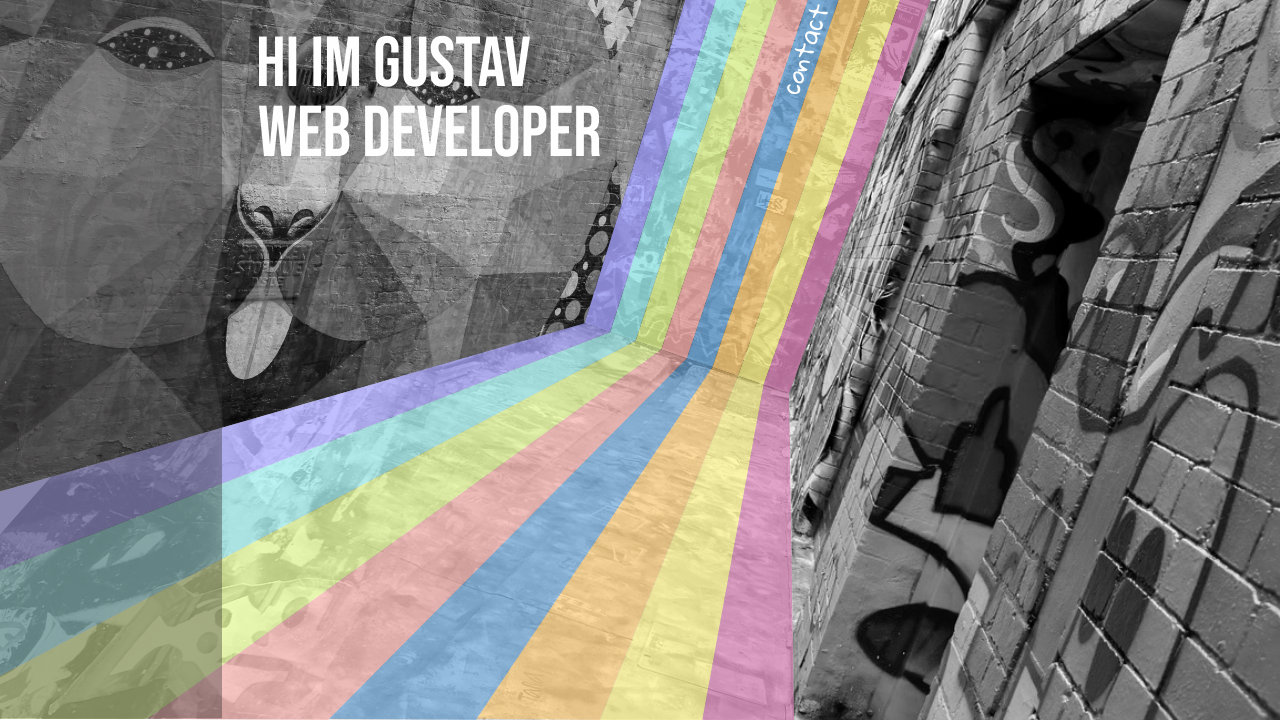
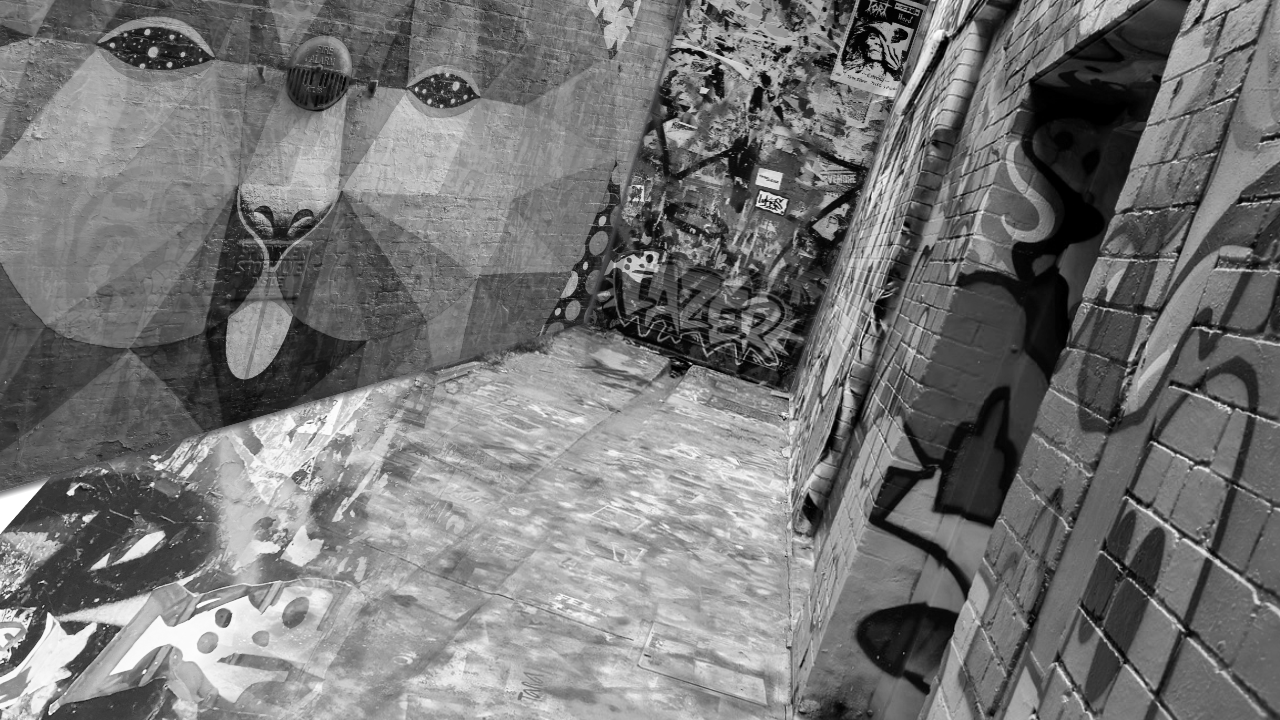
entrance

diff --git a/src/components/Banner.js b/src/components/Banner.js
@@ -1,16 +1,63 @@
 import '../components/Banner.css';
-import React, { useState } from 'react';
+import { useState } from 'react';
 import imgBanner from '../assets/img/img-banner.png';
 
 export function Banner() {
-   const [hovered, setHovered] = useState(false);
-
-   const HoverTrue = () => setHovered(true);
-
-   const HoverFalse = () =>
+   const [hovered1, setHovered1] = useState(false);
+   const HoverTrue1 = () => setHovered1(true);
+   const HoverFalse1 = () =>
       setTimeout(function () {
-         setHovered(false);
-      }, 2000);
+         setHovered1(false);
+      }, 3000);
+
+   const [hovered2, setHovered2] = useState(false);
+   const HoverTrue2 = () => setHovered2(true);
+   const HoverFalse2 = () =>
+      setTimeout(function () {
+         setHovered2(false);
+      }, 3000);
+
+   const [hovered3, setHovered3] = useState(false);
+   const HoverTrue3 = () => setHovered3(true);
+   const HoverFalse3 = () =>
+      setTimeout(function () {
+         setHovered3(false);
+      }, 3000);
+
+   const [hovered4, setHovered4] = useState(false);
+   const HoverTrue4 = () => setHovered4(true);
+   const HoverFalse4 = () =>
+      setTimeout(function () {
+         setHovered4(false);
+      }, 3000);
+
+   const [hovered5, setHovered5] = useState(false);
+   const HoverTrue5 = () => setHovered5(true);
+   const HoverFalse5 = () =>
+      setTimeout(function () {
+         setHovered5(false);
+      }, 3000);
+
+   const [hovered6, setHovered6] = useState(false);
+   const HoverTrue6 = () => setHovered6(true);
+   const HoverFalse6 = () =>
+      setTimeout(function () {
+         setHovered6(false);
+      }, 3000);
+
+   const [hovered7, setHovered7] = useState(false);
+   const HoverTrue7 = () => setHovered7(true);
+   const HoverFalse7 = () =>
+      setTimeout(function () {
+         setHovered7(false);
+      }, 3000);
+
+   const [hovered8, setHovered8] = useState(false);
+   const HoverTrue8 = () => setHovered8(true);
+   const HoverFalse8 = () =>
+      setTimeout(function () {
+         setHovered8(false);
+      }, 3000);
 
    return (
       <div className="container">
@@ -20,61 +67,61 @@ export function Banner() {
                <metadata id="CorelCorpID_0Corel-Layer" />
                <polygon
                   id="fil1"
-                  class={hovered ? 'move' : ''}
-                  onMouseOver={HoverTrue}
-                  onMouseLeave={HoverFalse}
+                  class={hovered1 ? 'move' : ''}
+                  onMouseOver={HoverTrue1}
+                  onMouseLeave={HoverFalse1}
                   points="0,4828 0,5723 5382,2886 6321,0 6062,0 5166,2812 "
                />
                <polygon
                   id="fil2"
-                  class={hovered ? 'move' : ''}
-                  onMouseOver={HoverTrue}
-                  onMouseLeave={HoverFalse}
+                  class={hovered2 ? 'move' : ''}
+                  onMouseOver={HoverTrue2}
+                  onMouseLeave={HoverFalse2}
                   points="5599,2960 6581,0 6321,0 5382,2886 0,5723 0,6085 1253,6085 "
                />
                <polygon
                   id="fil3"
-                  class={hovered ? 'move' : ''}
-                  onMouseOver={HoverTrue}
-                  onMouseLeave={HoverFalse}
+                  class={hovered3 ? 'move' : ''}
+                  onMouseOver={HoverTrue3}
+                  onMouseLeave={HoverFalse3}
                   points="5816,3034 6841,0 6581,0 5599,2960 1253,6085 2778,6096 "
                />
                <polygon
                   id="fil4"
-                  class={hovered ? 'move' : ''}
-                  onMouseOver={HoverTrue}
-                  onMouseLeave={HoverFalse}
+                  class={hovered4 ? 'move' : ''}
+                  onMouseOver={HoverTrue4}
+                  onMouseLeave={HoverFalse4}
                   points="6032,3109 7100,0 6841,0 5816,3034 2789,6085 4029,6096 "
                />
                <polygon
                   id="fil5"
-                  class={hovered ? 'move' : ''}
-                  onMouseOver={HoverTrue}
-                  onMouseLeave={HoverFalse}
+                  class={hovered5 ? 'move' : ''}
+                  onMouseOver={HoverTrue5}
+                  onMouseLeave={HoverFalse5}
                   points="6249,3183 7360,0 7100,0 6032,3109 4036,6085 5079,6096 "
                />
                <polygon
                   id="fil6"
-                  class={hovered ? 'move' : ''}
-                  onMouseOver={HoverTrue}
-                  onMouseLeave={HoverFalse}
+                  class={hovered6 ? 'move' : ''}
+                  onMouseOver={HoverTrue6}
+                  onMouseLeave={HoverFalse6}
                   points="6465,3257 7620,0 7360,0 6249,3183 5079,6096 5947,6096 "
                />
                <polygon
                   id="fil7"
-                  class={hovered ? 'move' : ''}
-                  onMouseOver={HoverTrue}
-                  onMouseLeave={HoverFalse}
+                  class={hovered7 ? 'move' : ''}
+                  onMouseOver={HoverTrue7}
+                  onMouseLeave={HoverFalse7}
                   points="6465,3257 7620,0 7879,0 6682,3331 6723,6096 5947,6096 "
                />
                <polygon
                   id="fil8"
-                  class={hovered ? 'move' : ''}
-                  onMouseOver={HoverTrue}
-                  onMouseLeave={HoverFalse}
+                  class={hovered8 ? 'move' : ''}
+                  onMouseOver={HoverTrue8}
+                  onMouseLeave={HoverFalse8}
                   points="4949,2737 5802,0 6062,0 5166,2812 0,4828 0,4163 "
                />
-               <polygon id="fil" class="fil9" points="10837,127 0,127 0,0 10837,0 " />
+               <polygon class="fil9" points="10837,127 0,127 0,0 10837,0 " />
             </g>
          </svg>
       </div>

diff --git a/src/components/Entrance.css b/src/components/Entrance.css
@@ -1,0 +1,110 @@
+@-webkit-keyframes fade-in {
+   0% {
+      opacity: 0;
+   }
+   100% {
+      opacity: 1;
+   }
+}
+
+@keyframes fade-in {
+   0% {
+      opacity: 0;
+   }
+   100% {
+      opacity: 1;
+   }
+}
+
+@-webkit-keyframes fade-out {
+   0% {
+      opacity: 1;
+   }
+   100% {
+      opacity: 0;
+   }
+}
+
+@keyframes fade-out {
+   0% {
+      opacity: 1;
+   }
+   100% {
+      opacity: 0;
+   }
+}
+
+.entrance-img-a {
+   position: absolute;
+   top: 0vw;
+   left: 0vw;
+   width: 100%;
+   -webkit-animation: fade-in 0.8s cubic-bezier(0.39, 0.575, 0.565, 1) both;
+   animation: fade-in 0.8s cubic-bezier(0.39, 0.575, 0.565, 1) both;
+}
+
+.entrance-img-b {
+   position: absolute;
+   top: 0vw;
+   left: 0vw;
+   width: 100%;
+   -webkit-animation: fade-in 0.8s cubic-bezier(0.39, 0.575, 0.565, 1) both;
+   animation: fade-in 0.8s cubic-bezier(0.39, 0.575, 0.565, 1) both;
+   animation-delay: 0.2s;
+}
+
+.entrance-img-c {
+   position: absolute;
+   top: 0vw;
+   left: 0vw;
+   width: 100%;
+   -webkit-animation: fade-in 0.8s cubic-bezier(0.39, 0.575, 0.565, 1) both;
+   animation: fade-in 0.8s cubic-bezier(0.39, 0.575, 0.565, 1) both;
+   animation-delay: 0.4s;
+}
+
+.entrance-img-d {
+   position: absolute;
+   top: 0vw;
+   left: 0vw;
+   width: 100%;
+   -webkit-animation: fade-in 0.8s cubic-bezier(0.39, 0.575, 0.565, 1) both;
+   animation: fade-in 0.8s cubic-bezier(0.39, 0.575, 0.565, 1) both;
+   animation-delay: 0.6s;
+}
+
+.entrance-img-e {
+   position: absolute;
+   top: 0vw;
+   left: 0vw;
+   width: 100%;
+   -webkit-animation: fade-in 0.8s cubic-bezier(0.39, 0.575, 0.565, 1) both;
+   animation: fade-in 0.8s cubic-bezier(0.39, 0.575, 0.565, 1) both;
+   animation-delay: 0.8s;
+}
+
+.entrance-img-f {
+   position: absolute;
+   top: 0vw;
+   left: 0vw;
+   width: 100%;
+   -webkit-animation: fade-in 0.8s cubic-bezier(0.39, 0.575, 0.565, 1) both;
+   animation: fade-in 0.8s cubic-bezier(0.39, 0.575, 0.565, 1) both;
+   animation-delay: 1s;
+}
+
+/* out */
+
+.entrance-img-a {
+   -webkit-animation: fade-out 0.2s cubic-bezier(0.39, 0.575, 0.565, 1) both;
+   animation: fade-out 0.2s cubic-bezier(0.39, 0.575, 0.565, 1) both;
+   animation-delay: 2s;
+}
+
+/* the class comes from banner to use the animation */
+
+.lines {
+   -webkit-animation: fade-in 0.2s cubic-bezier(0.39, 0.575, 0.565, 1) both;
+   animation: fade-in 0.2s cubic-bezier(0.39, 0.575, 0.565, 1) both;
+   animation-delay: 4s;
+}

diff --git a/src/components/Entrance.js b/src/components/Entrance.js
@@ -1,0 +1,20 @@
+import '../components/Entrance.css';
+import imgA from '../assets/img/entrance/entrance-a.png';
+import imgB from '../assets/img/entrance/entrance-b.png';
+import imgC from '../assets/img/entrance/entrance-c.png';
+import imgD from '../assets/img/entrance/entrance-d.png';
+import imgE from '../assets/img/entrance/entrance-e.png';
+import imgF from '../assets/img/entrance/entrance-f.png';
+
+export function Entrance() {
+   return (
+      <div className="entrance-container">
+         <img src={imgA} className="entrance-img-a" alt="rainbow" />
+         <img src={imgB} className="entrance-img-b" alt="rainbow" />
+         <img src={imgC} className="entrance-img-b" alt="rainbow" />
+         <img src={imgD} className="entrance-img-b" alt="rainbow" />
+         <img src={imgE} className="entrance-img-b" alt="rainbow" />
+         <img src={imgF} className="entrance-img-b" alt="rainbow" />
+      </div>
+   );
+}

diff --git a/src/components/Banner.css b/src/components/Banner.css
@@ -60,7 +60,8 @@
    top: 0vw;
    left: 0vw;
    width: 100%;
-   opacity: 1;
+   opacity: 0;
+   z-index: 5;
 }
 
 #fil0 {
@@ -107,15 +108,11 @@
    fill-opacity: 0.701961;
 }
 
-#fil9 {
-   fill: #373435;
-   fill-rule: nonzero;
+.fil9 {
+   opacity: 0;
 }
 
 .move {
    -webkit-animation: vibrate-1 0.9s linear infinite both;
    animation: vibrate-1 0.9s linear infinite both;
 }
-
-/* -webkit-animation: vibrate-1 0.9s linear infinite both;
-   animation: vibrate-1 0.9s linear infinite both; */

diff --git a/src/App.js b/src/App.js
@@ -1,10 +1,11 @@
 import './App.css';
-import { Banner } from './components';
+import { Banner, Entrance } from './components';
 
 function App() {
    return (
       <div className="App">
          <Banner />
+         <Entrance />
       </div>
    );
 }

diff --git a/src/components/index.js b/src/components/index.js
@@ -1,1 +1,2 @@
 export * from './Banner';
+export * from './Entrance';
